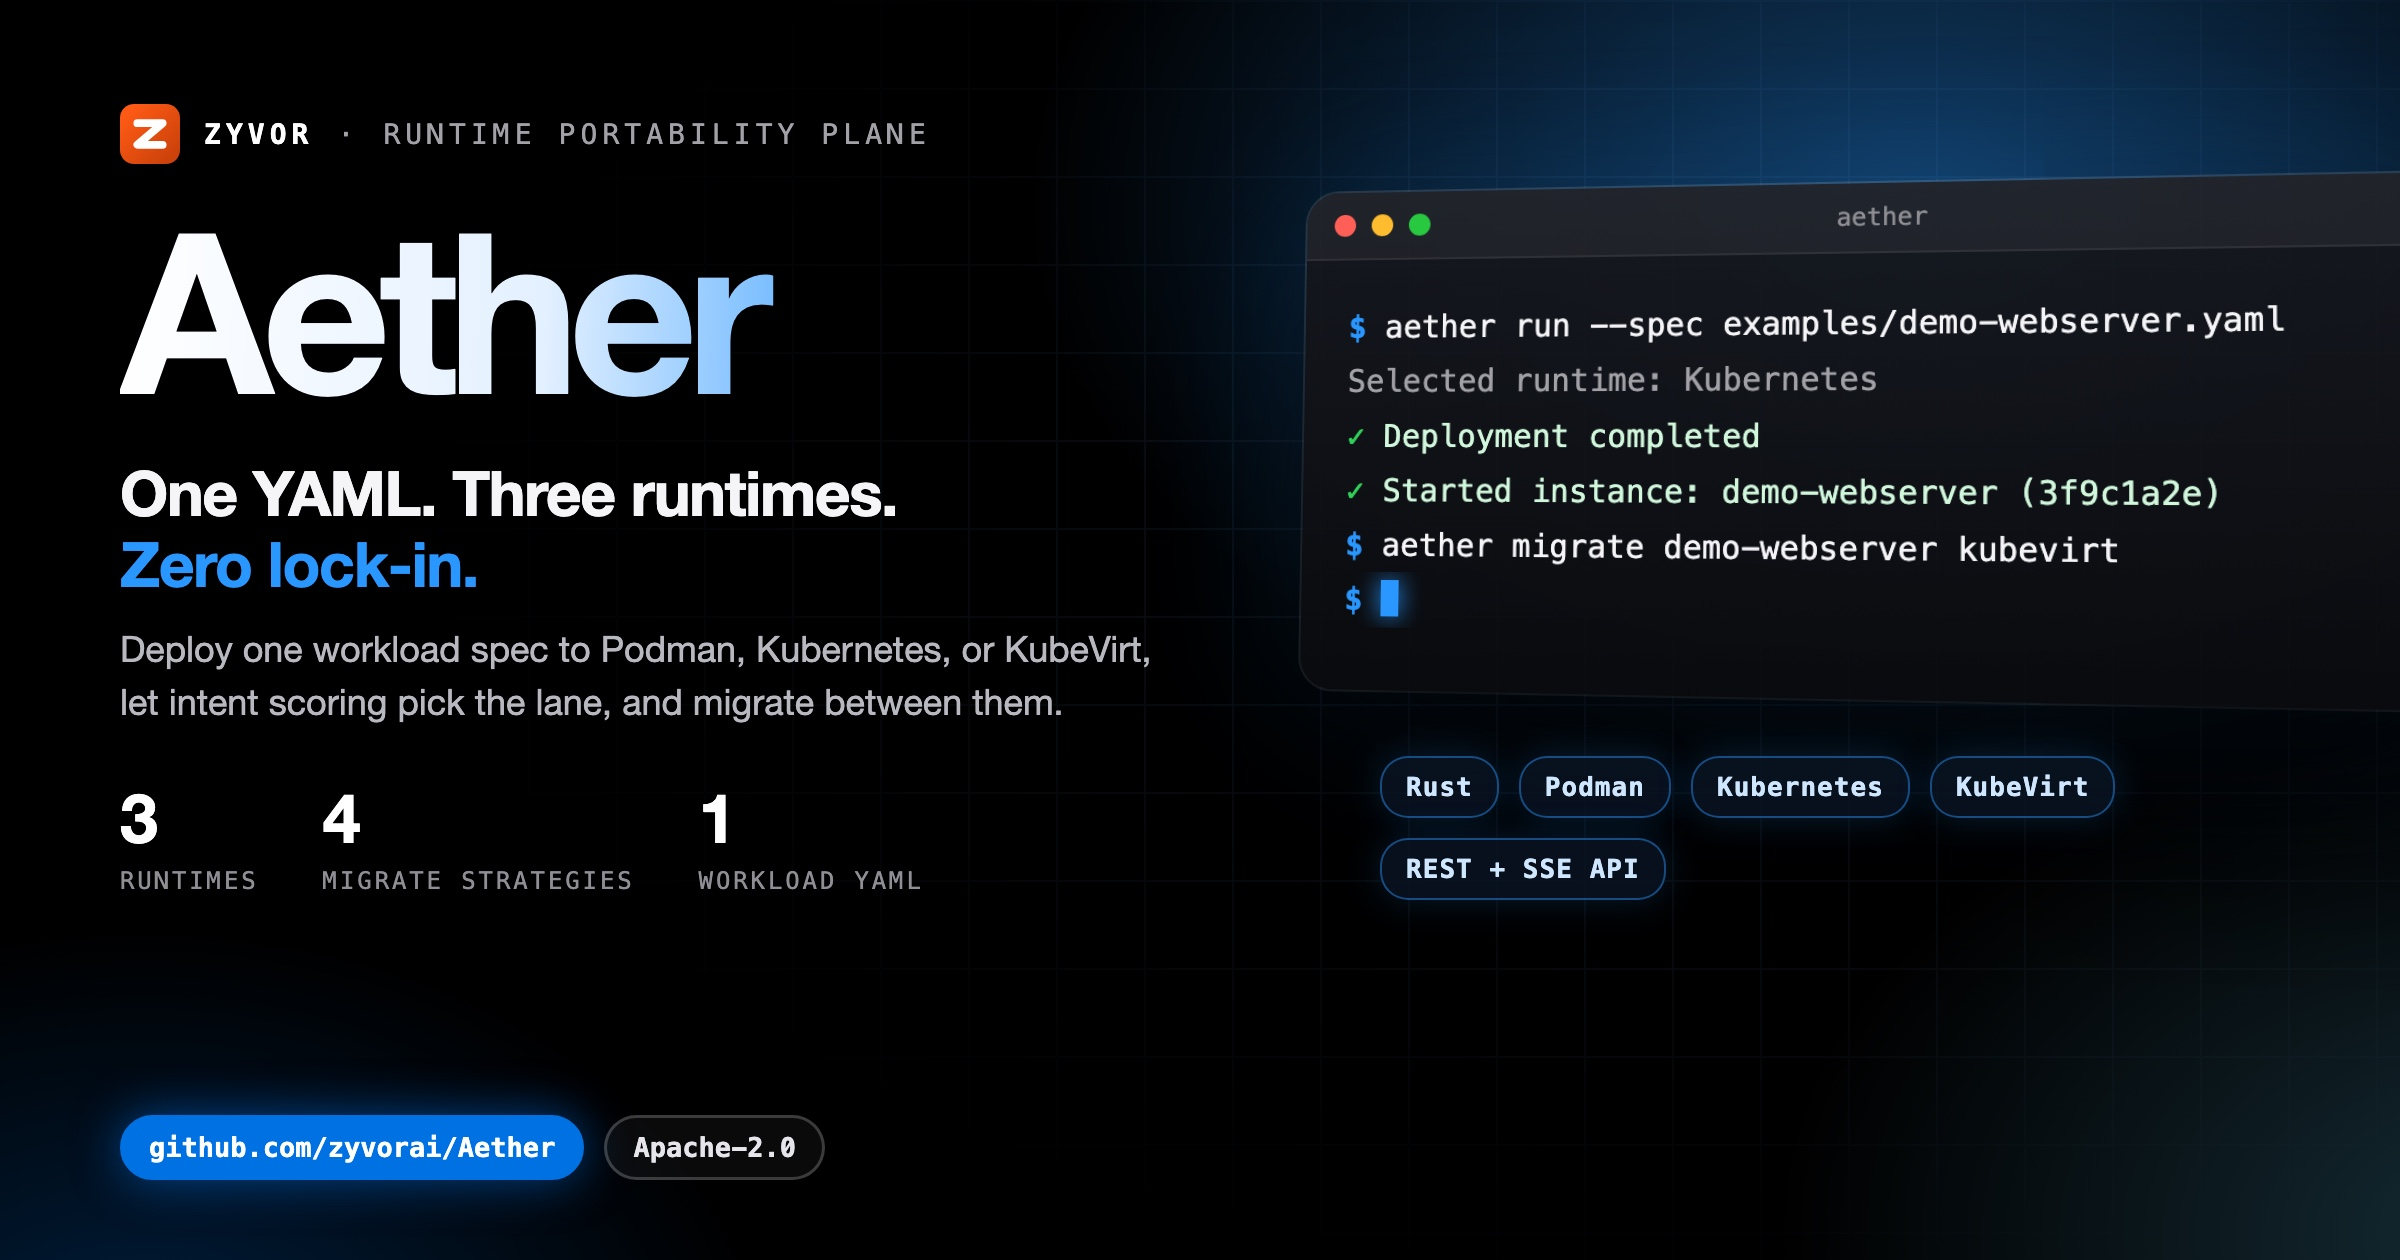
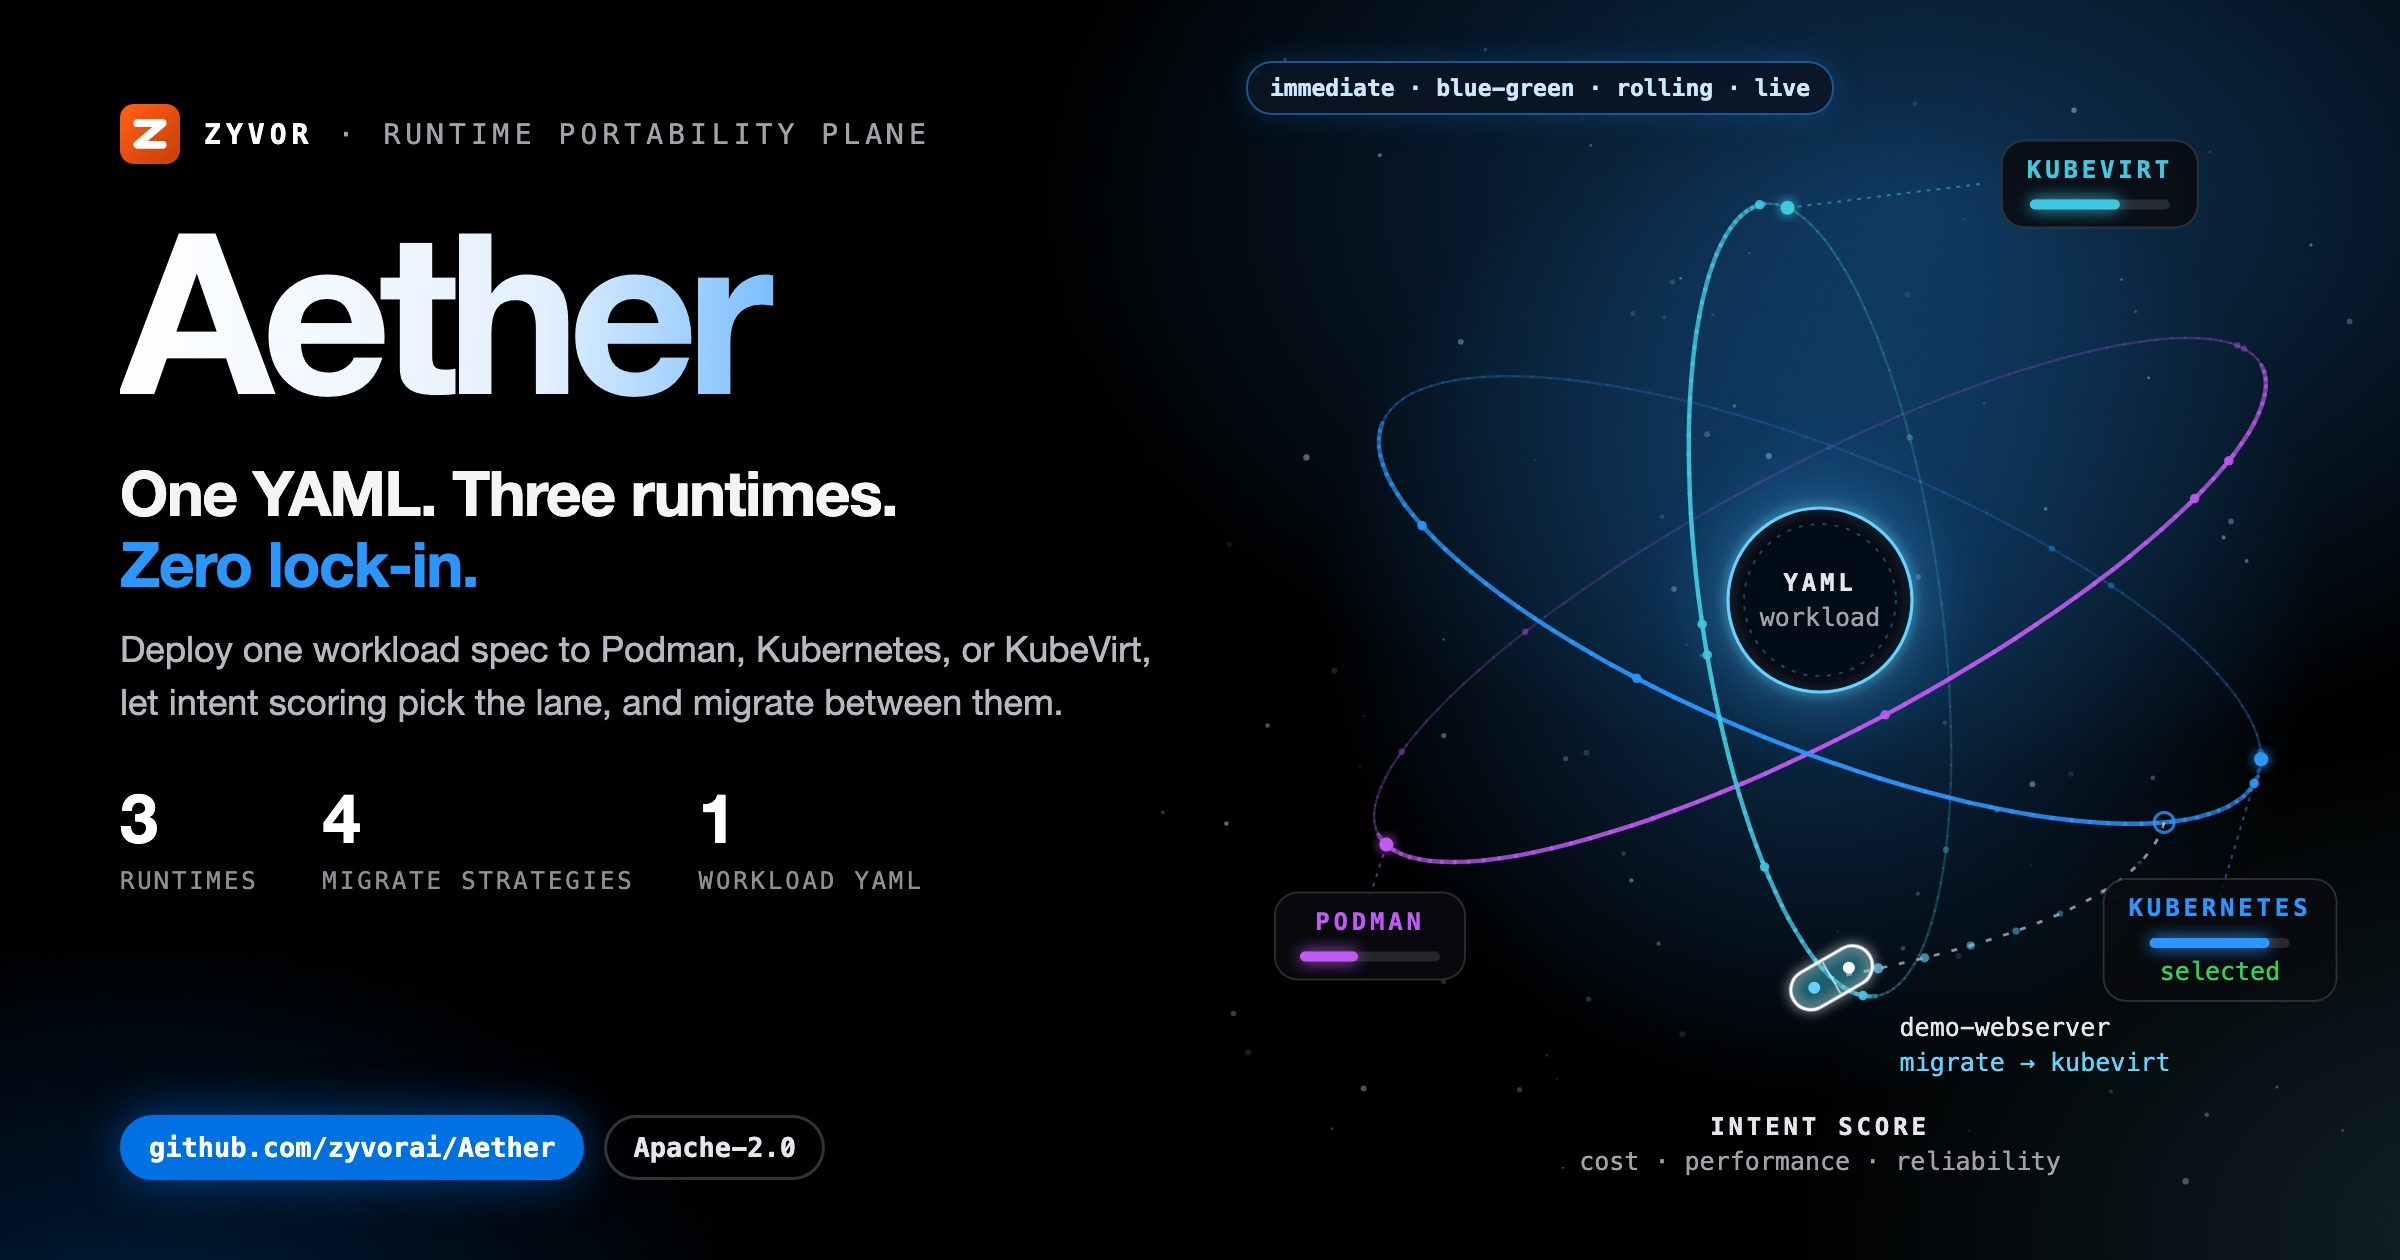
docs(social): unique illustrated hero card
Replace the shared terminal-window art with a motif drawn for this project;
same verified copy and stats on the left.

diff --git a/docs/social/aether-hero-dark.html b/docs/social/aether-hero-dark.html
@@ -8,58 +8,47 @@
   Build: ./docs/social/build-hero-dark.sh  ->  aether-hero-dark.jpg (2400x1260)
 -->
 <style>
-  :root { --blue:#0071e3; --signal:#2997ff; --cyan:#64d2ff; --green:#30d158; --amber:#ff9f0a;
+  :root { --blue:#0071e3; --signal:#2997ff; --cyan:#64d2ff; --green:#30d158; --amber:#ff9f0a; --red:#ff453a; --violet:#bf5af2;
     --sans:'SF Pro Display','Helvetica Neue',Helvetica,Arial,sans-serif; --mono:'SF Mono',Menlo,Consolas,monospace; }
   * { box-sizing:border-box; }
   html,body { margin:0; padding:0; }
   body { width:1200px; height:630px; overflow:hidden; color:#f5f5f7; font-family:var(--sans); position:relative; background:#000; }
   .aurora { position:absolute; inset:0;
-    background:radial-gradient(720px 460px at 80% 16%, rgba(41,151,255,.40), transparent 62%),
-               radial-gradient(600px 420px at 104% 98%, rgba(100,210,255,.20), transparent 60%),
+    background:radial-gradient(720px 460px at 80% 16%, rgba(41,151,255,.34), transparent 62%),
+               radial-gradient(600px 420px at 104% 98%, rgba(100,210,255,.16), transparent 60%),
                radial-gradient(520px 380px at 6% 110%, rgba(0,113,227,.28), transparent 60%); }
-  .grid { position:absolute; inset:0; opacity:.09;
-    background-image:linear-gradient(rgba(120,180,255,.9) 1px,transparent 1px),linear-gradient(90deg,rgba(120,180,255,.9) 1px,transparent 1px);
-    background-size:44px 44px; -webkit-mask-image:radial-gradient(900px 520px at 72% 42%, #000 18%, transparent 75%); }
-  .left { position:absolute; left:60px; top:52px; width:560px; z-index:3; }
+  .copy { position:absolute; left:60px; top:52px; width:560px; z-index:3; }
   .brand { display:flex; align-items:center; gap:12px; font-family:var(--mono); font-size:14px; letter-spacing:.18em; text-transform:uppercase; color:#a1a1a6; }
   .brand b { color:#fff; }
   .word { margin:20px 0 0; font-size:112px; line-height:.95; font-weight:800; letter-spacing:-.05em; white-space:nowrap;
     background:linear-gradient(92deg,#fff 0%,#e3f0ff 38%,var(--signal) 74%,var(--cyan) 100%); -webkit-background-clip:text; background-clip:text; color:transparent; padding-bottom:6px; }
   .tag { margin:14px 0 0; font-size:31px; line-height:1.15; font-weight:700; letter-spacing:-.02em; }
   .tag em { font-style:normal; color:var(--signal); }
-  .lede { margin:12px 0 0; font-size:18px; line-height:1.45; color:#b8b8bf; width:520px; }
+  .lede { margin:12px 0 0; font-size:18px; line-height:1.45; color:#b8b8bf; width:520px; text-shadow:0 1px 12px #000; }
   .stats { margin-top:24px; display:flex; gap:32px; }
   .stat b { display:block; font-size:34px; font-weight:800; letter-spacing:-.03em; color:#fff; }
   .stat span { font-family:var(--mono); font-size:12px; letter-spacing:.12em; text-transform:uppercase; color:#8e8e93; }
   .pill { position:absolute; left:60px; bottom:40px; display:flex; gap:10px; z-index:3; }
-  .pill span { font-family:var(--mono); font-size:13.5px; font-weight:700; padding:7px 13px; border-radius:18px; border:1.5px solid rgba(255,255,255,.2); color:#e5e5ea; background:rgba(255,255,255,.04); }
+  .pill span { font-family:var(--mono); font-size:13.5px; font-weight:700; padding:7px 13px; border-radius:18px; border:1.5px solid rgba(255,255,255,.2); color:#e5e5ea; background:rgba(0,0,0,.6); }
   .pill span.b { background:var(--blue); border-color:var(--blue); color:#fff; box-shadow:0 0 24px rgba(0,113,227,.55); }
-
-  .right { position:absolute; left:652px; top:96px; width:560px; z-index:2; }
-  .win { position:relative; width:560px; border-radius:16px; overflow:hidden; z-index:2;
-    background:linear-gradient(180deg, rgba(22,24,30,.94), rgba(10,11,14,.96));
-    box-shadow:0 50px 100px rgba(0,0,0,.75), 0 0 0 1px rgba(255,255,255,.14), 0 0 90px rgba(41,151,255,.22);
-    transform:perspective(1600px) rotateY(-14deg) rotateX(4deg); transform-origin:left center; }
-  .bar { height:34px; display:flex; align-items:center; gap:8px; padding:0 14px; background:rgba(255,255,255,.05); border-bottom:1px solid rgba(255,255,255,.07); }
-  .bar i { width:11px; height:11px; border-radius:50%; background:#ff5f57; } .bar i:nth-child(2){background:#febc2e} .bar i:nth-child(3){background:#28c840}
-  .bar em { margin-left:auto; margin-right:auto; font-style:normal; font-family:var(--mono); font-size:12px; color:#8e8e93; transform:translateX(-24px); }
-  .term { min-height:214px; padding:20px 22px 24px; font-family:var(--mono); font-size:15.5px; line-height:1.75; }
-  .l { white-space:pre; overflow:hidden; text-overflow:ellipsis; color:#f5f5f7; }
-  .l .p { color:var(--signal); font-weight:700; }
-  .l.out { color:#a1a1a6; }
-  .l.cm { color:#6e6e73; }
-  .l.ok { color:#d1f7dc; } .l.ok span { color:var(--green); font-weight:700; }
-  .l.warn { color:#ffe1b0; } .l.warn span { color:var(--amber); font-weight:700; }
-  .cur { display:inline-block; width:9px; height:18px; background:var(--signal); vertical-align:-3px; box-shadow:0 0 12px var(--signal); }
-  .chips { margin:34px 0 0 38px; width:480px; display:flex; flex-wrap:wrap; gap:10px; position:relative; z-index:3; }
-  .chips span { font-family:var(--mono); font-size:13px; font-weight:700; letter-spacing:.04em; padding:7px 12px; border-radius:14px;
-    color:#cfe6ff; background:rgba(10,20,35,.82); border:1px solid rgba(41,151,255,.45); box-shadow:0 0 18px rgba(41,151,255,.18); }
+  .art { position:absolute; left:520px; top:0; width:680px; height:630px; z-index:2; }
+  .art svg { display:block; }
+  #labels { position:absolute; inset:0; z-index:4; pointer-events:none; }
+  .lbl { position:absolute; font-family:var(--mono); font-size:12.5px; color:#a1a1a6; text-align:center; transform:translate(-50%,-50%); white-space:nowrap; }
+  .lbl b { display:block; font-size:12px; letter-spacing:.16em; text-transform:uppercase; color:#e5e5ea; }
+  .lbl span { display:block; margin-top:3px; }
+  .lbl.box { padding:7px 12px; border-radius:12px; background:rgba(8,10,14,.85); border:1px solid rgba(255,255,255,.14); }
+  .lbl.chip { padding:6px 11px; border-radius:13px; font-size:12.5px; font-weight:700; color:#cfe6ff; background:rgba(10,20,35,.85); border:1px solid rgba(41,151,255,.5); box-shadow:0 0 16px rgba(41,151,255,.2); }
+  .lbl.left { transform:translate(0,-50%); text-align:left; }
+  .lbl.right { transform:translate(-100%,-50%); text-align:right; }
+  .ok { color:var(--green) !important; } .warn { color:var(--amber) !important; } .bad { color:var(--red) !important; } .sig { color:var(--signal) !important; } .cy { color:var(--cyan) !important; } .vi { color:var(--violet) !important; }
 </style>
 </head>
 <body>
 <div class="aurora"></div>
-<div class="grid"></div>
-<div class="left">
+<div class="art"><svg id="art" width="680" height="630" viewBox="0 0 680 630" xmlns="http://www.w3.org/2000/svg"></svg></div>
+<div id="labels"></div>
+<div class="copy">
   <div class="brand"><svg viewBox="0 0 64 64" width="30" height="30" aria-hidden="true"><defs><linearGradient id="zb" x1="8" y1="8" x2="56" y2="56" gradientUnits="userSpaceOnUse"><stop offset="0" stop-color="#ff5a15"/><stop offset="1" stop-color="#cc420a"/></linearGradient></defs><rect width="64" height="64" rx="15" fill="url(#zb)"/><path d="M18.5,20.5 45.5,20.5 18.5,43.5 45.5,43.5" fill="none" stroke="#fff" stroke-width="8.3" stroke-linecap="round" stroke-linejoin="round"/></svg><b>Zyvor</b><span>&middot;</span><span>Runtime portability plane</span></div>
   <div class="word">Aether</div>
   <div class="tag">One YAML. Three runtimes.<br><em>Zero lock-in.</em></div>
@@ -67,8 +56,114 @@
   <div class="stats"><div class="stat"><b>3</b><span>runtimes</span></div><div class="stat"><b>4</b><span>migrate strategies</span></div><div class="stat"><b>1</b><span>workload YAML</span></div></div>
 </div>
 <div class="pill"><span class="b">github.com/zyvorai/Aether</span><span>Apache-2.0</span></div>
-<div class="right"><div class="win"><div class="bar"><i></i><i></i><i></i><em>aether</em></div>
-<div class="term"><div class="l"><span class="p">$</span> aether run --spec examples/demo-webserver.yaml</div><div class="l out">Selected runtime: Kubernetes</div><div class="l ok"><span>&#10003;</span> Deployment completed</div><div class="l ok"><span>&#10003;</span> Started instance: demo-webserver (3f9c1a2e)</div><div class="l"><span class="p">$</span> aether migrate demo-webserver kubevirt</div><div class="l"><span class="p">$</span> <i class="cur"></i></div></div></div>
-<div class="chips"><span>Rust</span><span>Podman</span><span>Kubernetes</span><span>KubeVirt</span><span>REST + SSE API</span></div></div>
+<script>
+var Z = (function () {
+  var NS = 'http://www.w3.org/2000/svg', svg = document.getElementById('art'), labels = document.getElementById('labels');
+  var seed = 20261004;
+  function rnd() { seed = (seed * 1103515245 + 12345) % 2147483648; return seed / 2147483648; }
+  function el(tag, a, parent) { var n = document.createElementNS(NS, tag); for (var k in a) n.setAttribute(k, a[k]); (parent || svg).appendChild(n); return n; }
+  function g(attrs) { return el('g', attrs || {}); }
+  function label(x, y, inner, cls, style) { var d = document.createElement('div'); d.className = 'lbl ' + (cls || ''); d.style.left = (520 + x) + 'px'; d.style.top = y + 'px'; if (style) d.setAttribute('style', d.getAttribute('style') + ';' + style); d.innerHTML = inner; labels.appendChild(d); return d; }
+  return { NS: NS, svg: svg, W: 680, H: 630, rnd: rnd, el: el, g: g, label: label,
+    reseed: function (s) { seed = s; },
+    c: { blue: '#0071e3', signal: '#2997ff', cyan: '#64d2ff', green: '#30d158', amber: '#ff9f0a', red: '#ff453a', violet: '#bf5af2', teal: '#40c8e0', indigo: '#5e5ce6', pink: '#ff375f', white: '#f5f5f7', grey: '#8e8e93' } };
+})();
+(function () {
+// Aether: three tilted orbital lanes (Podman, Kubernetes, KubeVirt) around one workload core.
+// A workload capsule migrates from the Kubernetes lane to the KubeVirt lane; each lane carries an intent score bar.
+var C = Z.c, cx = 390, cy = 300;
+var defs = Z.el('defs', {});
+defs.innerHTML = '<filter id="aeGl" x="-50%" y="-50%" width="200%" height="200%"><feGaussianBlur stdDeviation="3" result="b"/><feMerge><feMergeNode in="b"/><feMergeNode in="SourceGraphic"/></feMerge></filter>' +
+  '<filter id="aeSf" x="-50%" y="-50%" width="200%" height="200%"><feGaussianBlur stdDeviation="16"/></filter>' +
+  '<radialGradient id="aeCore"><stop offset="0" stop-color="#ffffff" stop-opacity=".95"/><stop offset=".35" stop-color="#64d2ff" stop-opacity=".8"/><stop offset="1" stop-color="#0071e3" stop-opacity="0"/></radialGradient>' +
+  '<radialGradient id="aeHalo"><stop offset="0" stop-color="#2997ff" stop-opacity=".35"/><stop offset="1" stop-color="#2997ff" stop-opacity="0"/></radialGradient>';
+
+// starfield texture
+for (var i = 0; i < 90; i++) {
+  var sx = 60 + Z.rnd() * 600, sy = 24 + Z.rnd() * 580;
+  if (sx < 90 && sy > 430) continue;
+  Z.el('circle', { cx: sx.toFixed(1), cy: sy.toFixed(1), r: (0.5 + Z.rnd() * 1.1).toFixed(2), fill: '#cfe6ff', opacity: (0.08 + Z.rnd() * 0.35).toFixed(2) });
+}
+Z.el('circle', { cx: cx, cy: cy, r: 250, fill: 'url(#aeHalo)' });
+
+var lanes = [
+  { name: 'Podman', rx: 250, ry: 66, rot: -28, col: C.violet, score: 0.42 },
+  { name: 'Kubernetes', rx: 236, ry: 74, rot: 22, col: C.signal, score: 0.86 },
+  { name: 'KubeVirt', rx: 200, ry: 60, rot: 82, col: C.teal, score: 0.64 }
+];
+function pt(L, t) {
+  var a = L.rot * Math.PI / 180, ct = Math.cos(t), st = Math.sin(t);
+  return { x: cx + L.rx * ct * Math.cos(a) - L.ry * st * Math.sin(a), y: cy + L.rx * ct * Math.sin(a) + L.ry * st * Math.cos(a), z: st };
+}
+// back halves first (dim), then core, then front halves (bright)
+function drawLane(L, front) {
+  var n = 120;
+  for (var k = 0; k < n; k++) {
+    var t0 = k / n * Math.PI * 2, t1 = (k + 1) / n * Math.PI * 2, p0 = pt(L, t0), p1 = pt(L, t1);
+    var isFront = (p0.z + p1.z) > 0;
+    if (isFront !== front) continue;
+    var depth = (p0.z + p1.z) / 2;
+    Z.el('line', { x1: p0.x.toFixed(1), y1: p0.y.toFixed(1), x2: p1.x.toFixed(1), y2: p1.y.toFixed(1), stroke: L.col,
+      'stroke-width': front ? 2.2 : 1.2, 'stroke-linecap': 'round', opacity: (front ? 0.55 + depth * 0.4 : 0.18 + (1 + depth) * 0.15).toFixed(2) });
+  }
+  // orbiting debris dots
+  for (var k = 0; k < 7; k++) {
+    var p = pt(L, Z.rnd() * Math.PI * 2);
+    if ((p.z > 0) !== front) continue;
+    Z.el('circle', { cx: p.x.toFixed(1), cy: p.y.toFixed(1), r: front ? 2.4 : 1.6, fill: L.col, opacity: front ? .9 : .4 });
+  }
+}
+lanes.forEach(function (L) { drawLane(L, false); });
+
+// core: workload spec
+Z.el('circle', { cx: cx, cy: cy, r: 70, fill: 'url(#aeCore)', opacity: .55, filter: 'url(#aeSf)' });
+Z.el('circle', { cx: cx, cy: cy, r: 46, fill: 'rgba(6,10,18,.94)', stroke: C.cyan, 'stroke-width': 1.6, filter: 'url(#aeGl)' });
+Z.el('circle', { cx: cx, cy: cy, r: 38, fill: 'none', stroke: 'rgba(100,210,255,.3)', 'stroke-dasharray': '2 4' });
+Z.label(cx, cy, '<b>YAML</b><span>workload</span>');
+
+lanes.forEach(function (L) { drawLane(L, true); });
+
+// migration: capsule leaves the Kubernetes lane and transfers onto the KubeVirt lane
+var A = pt(lanes[1], 0.55), B = pt(lanes[2], 0.35);
+var mid = { x: (A.x + B.x) / 2 + 70, y: (A.y + B.y) / 2 + 10 };
+var trail = 'M' + A.x.toFixed(1) + ',' + A.y.toFixed(1) + ' Q' + mid.x.toFixed(1) + ',' + mid.y.toFixed(1) + ' ' + B.x.toFixed(1) + ',' + B.y.toFixed(1);
+Z.el('path', { d: trail, fill: 'none', stroke: '#fff', 'stroke-width': 1.4, 'stroke-dasharray': '3 6', opacity: .55 });
+var tp = Z.el('path', { d: trail, fill: 'none', stroke: 'none' }), TL = tp.getTotalLength();
+for (var k = 1; k < 8; k++) {
+  var q = tp.getPointAtLength(TL * k / 8);
+  Z.el('circle', { cx: q.x.toFixed(1), cy: q.y.toFixed(1), r: (0.8 + k * 0.25).toFixed(2), fill: C.cyan, opacity: (0.15 + k * 0.08).toFixed(2) });
+}
+Z.el('circle', { cx: A.x.toFixed(1), cy: A.y.toFixed(1), r: 5, fill: 'none', stroke: C.signal, 'stroke-width': 1.5, opacity: .8 });
+// capsule
+var cap = Z.g({ transform: 'translate(' + B.x.toFixed(1) + ',' + B.y.toFixed(1) + ') rotate(-30)' });
+Z.el('rect', { x: -22, y: -10, width: 44, height: 20, rx: 10, fill: 'rgba(64,200,224,.25)', stroke: '#fff', 'stroke-width': 1.6, filter: 'url(#aeGl)' }, cap);
+Z.el('line', { x1: 0, y1: -9, x2: 0, y2: 9, stroke: 'rgba(255,255,255,.6)', 'stroke-width': 1 }, cap);
+Z.el('circle', { cx: -10, cy: 0, r: 3, fill: C.cyan }, cap);
+Z.el('circle', { cx: 10, cy: 0, r: 3, fill: '#fff' }, cap);
+Z.label(B.x + 34, B.y + 32, '<span style="color:#e5e5ea">demo-webserver</span><span class="cy">migrate &rarr; kubevirt</span>', 'left');
+
+// lane labels with intent score bars
+function bar(s, col) {
+  return '<i style="display:inline-block;width:70px;height:5px;border-radius:3px;background:rgba(255,255,255,.12);margin-top:5px;position:relative;vertical-align:middle">' +
+    '<i style="position:absolute;left:0;top:0;bottom:0;width:' + Math.round(s * 70) + 'px;border-radius:3px;background:' + col + ';box-shadow:0 0 8px ' + col + '"></i></i>';
+}
+function laneLabel(L, x, y, extra) {
+  Z.label(x, y, '<b style="color:' + L.col + '">' + L.name + '</b>' + bar(L.score, L.col) + (extra || ''), 'box');
+}
+var pP = pt(lanes[0], Math.PI * 0.97), pK = pt(lanes[1], -0.12), pV = pt(lanes[2], Math.PI * 1.06);
+function leader(p, x, y, col) {
+  Z.el('line', { x1: p.x.toFixed(1), y1: p.y.toFixed(1), x2: x, y2: y, stroke: col, 'stroke-width': 1, opacity: .5, 'stroke-dasharray': '2 3' });
+  Z.el('circle', { cx: p.x.toFixed(1), cy: p.y.toFixed(1), r: 3.5, fill: col, filter: 'url(#aeGl)' });
+}
+leader(pP, 165, 448, lanes[0].col);
+leader(pK, 590, 448, lanes[1].col);
+leader(pV, 470, 92, lanes[2].col);
+laneLabel(lanes[0], 165, 468);
+laneLabel(lanes[1], 590, 470, '<span class="ok">selected</span>');
+laneLabel(lanes[2], 530, 92);
+Z.label(cx, 572, '<b>intent score</b><span>cost &middot; performance &middot; reliability</span>');
+Z.label(250, 44, 'immediate &middot; blue-green &middot; rolling &middot; live', 'chip', 'font-size:11.5px');
+})();
+</script>
 </body>
 </html>
